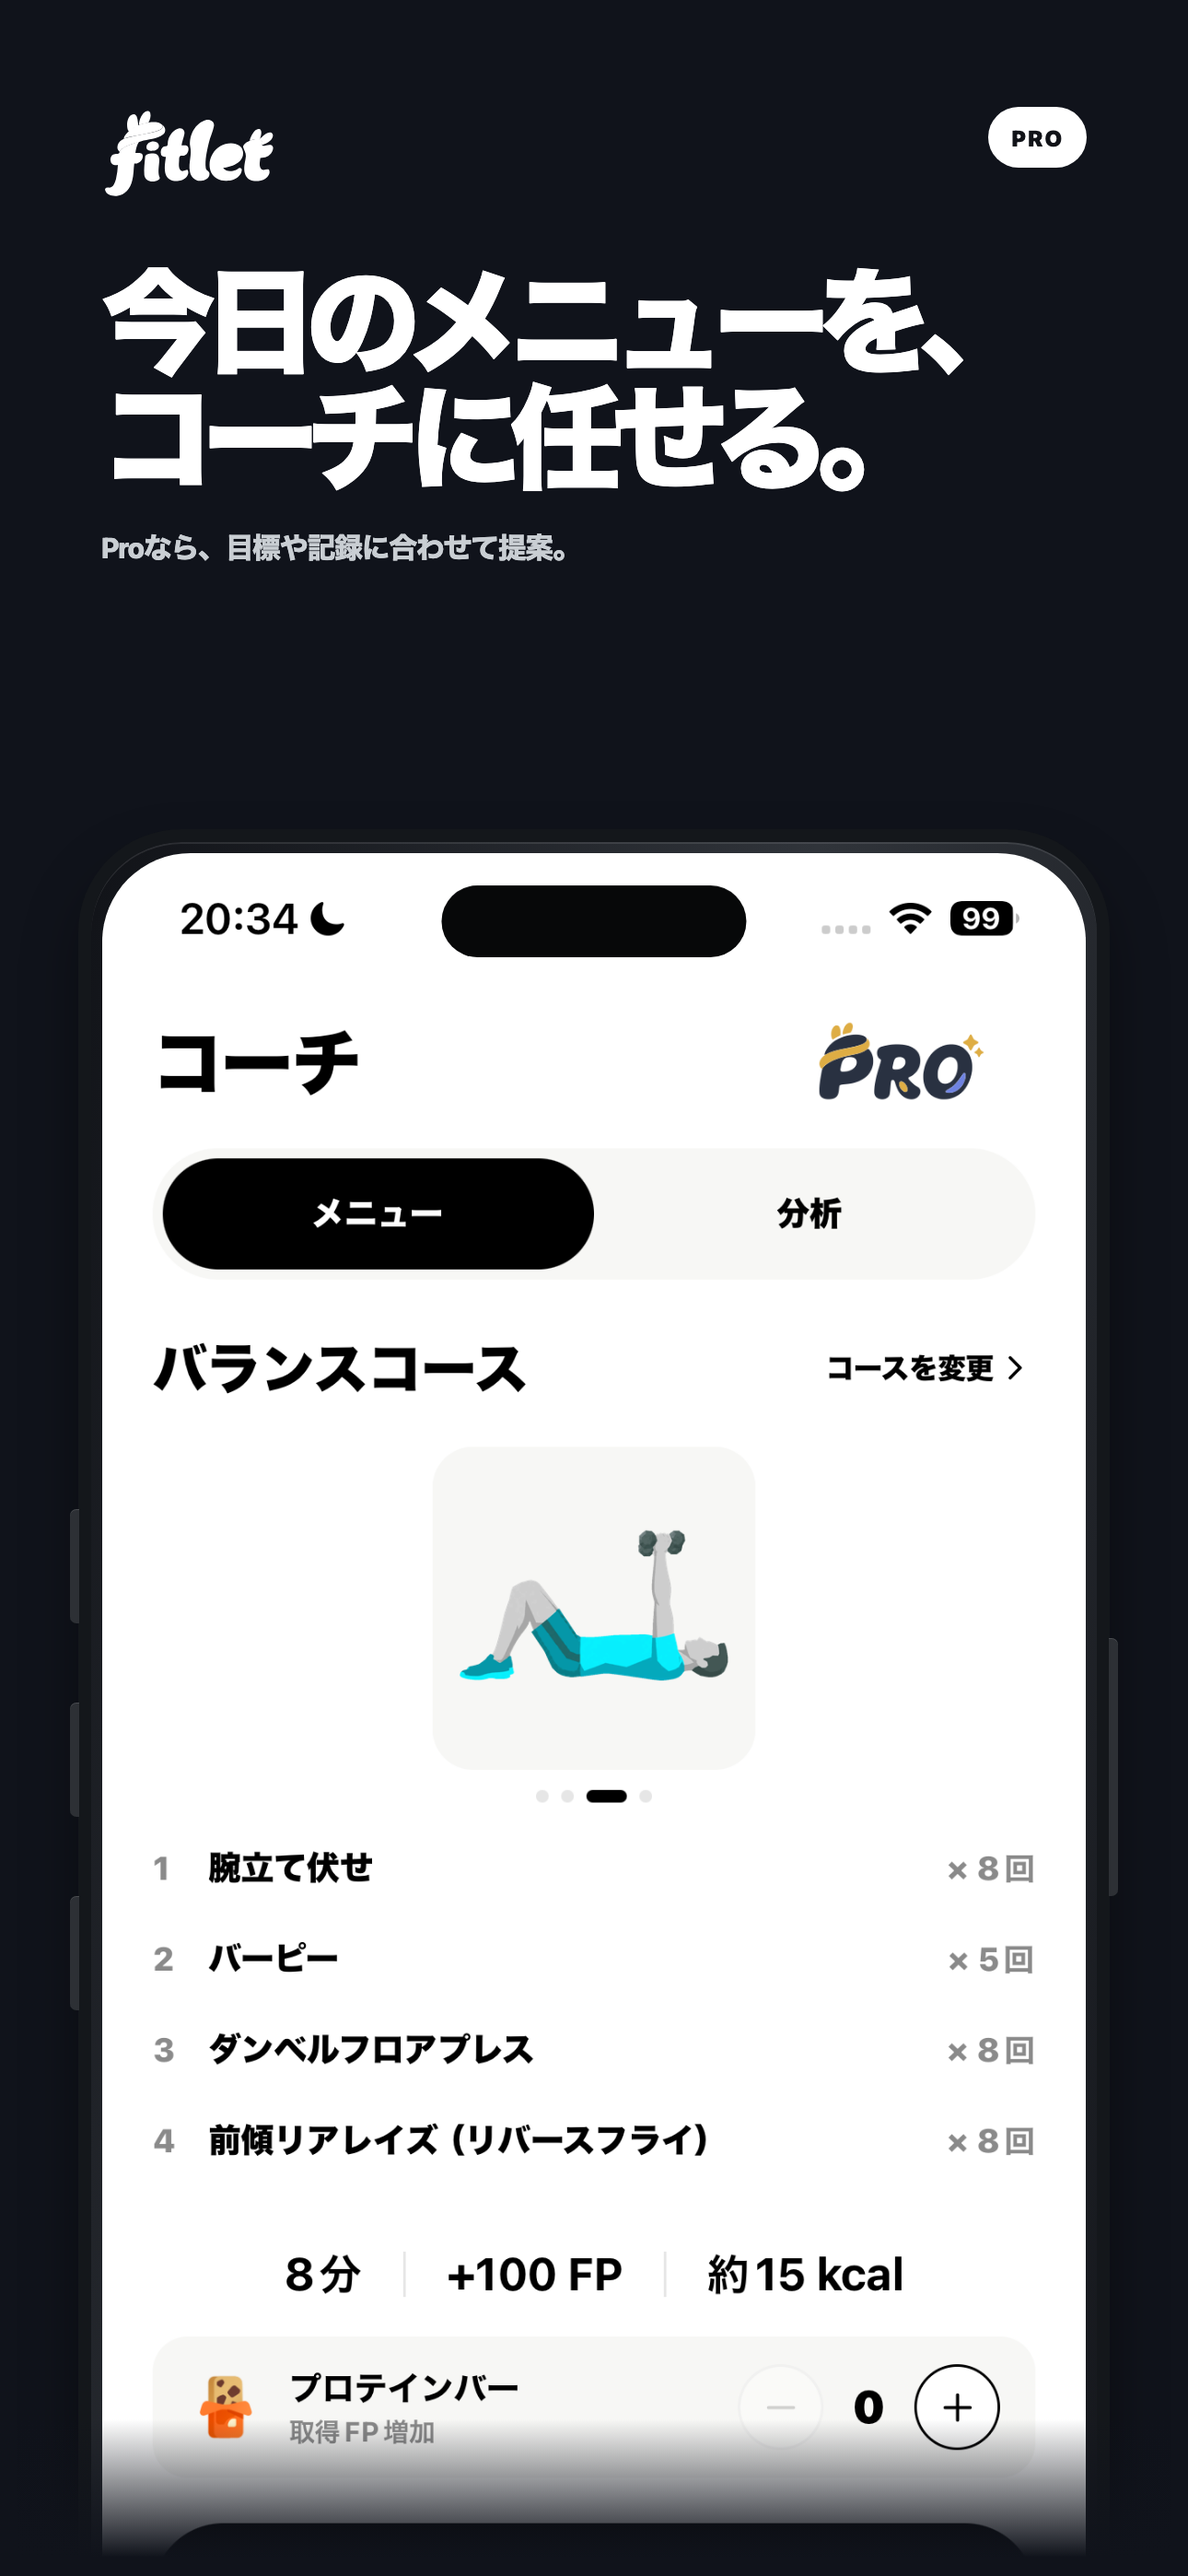
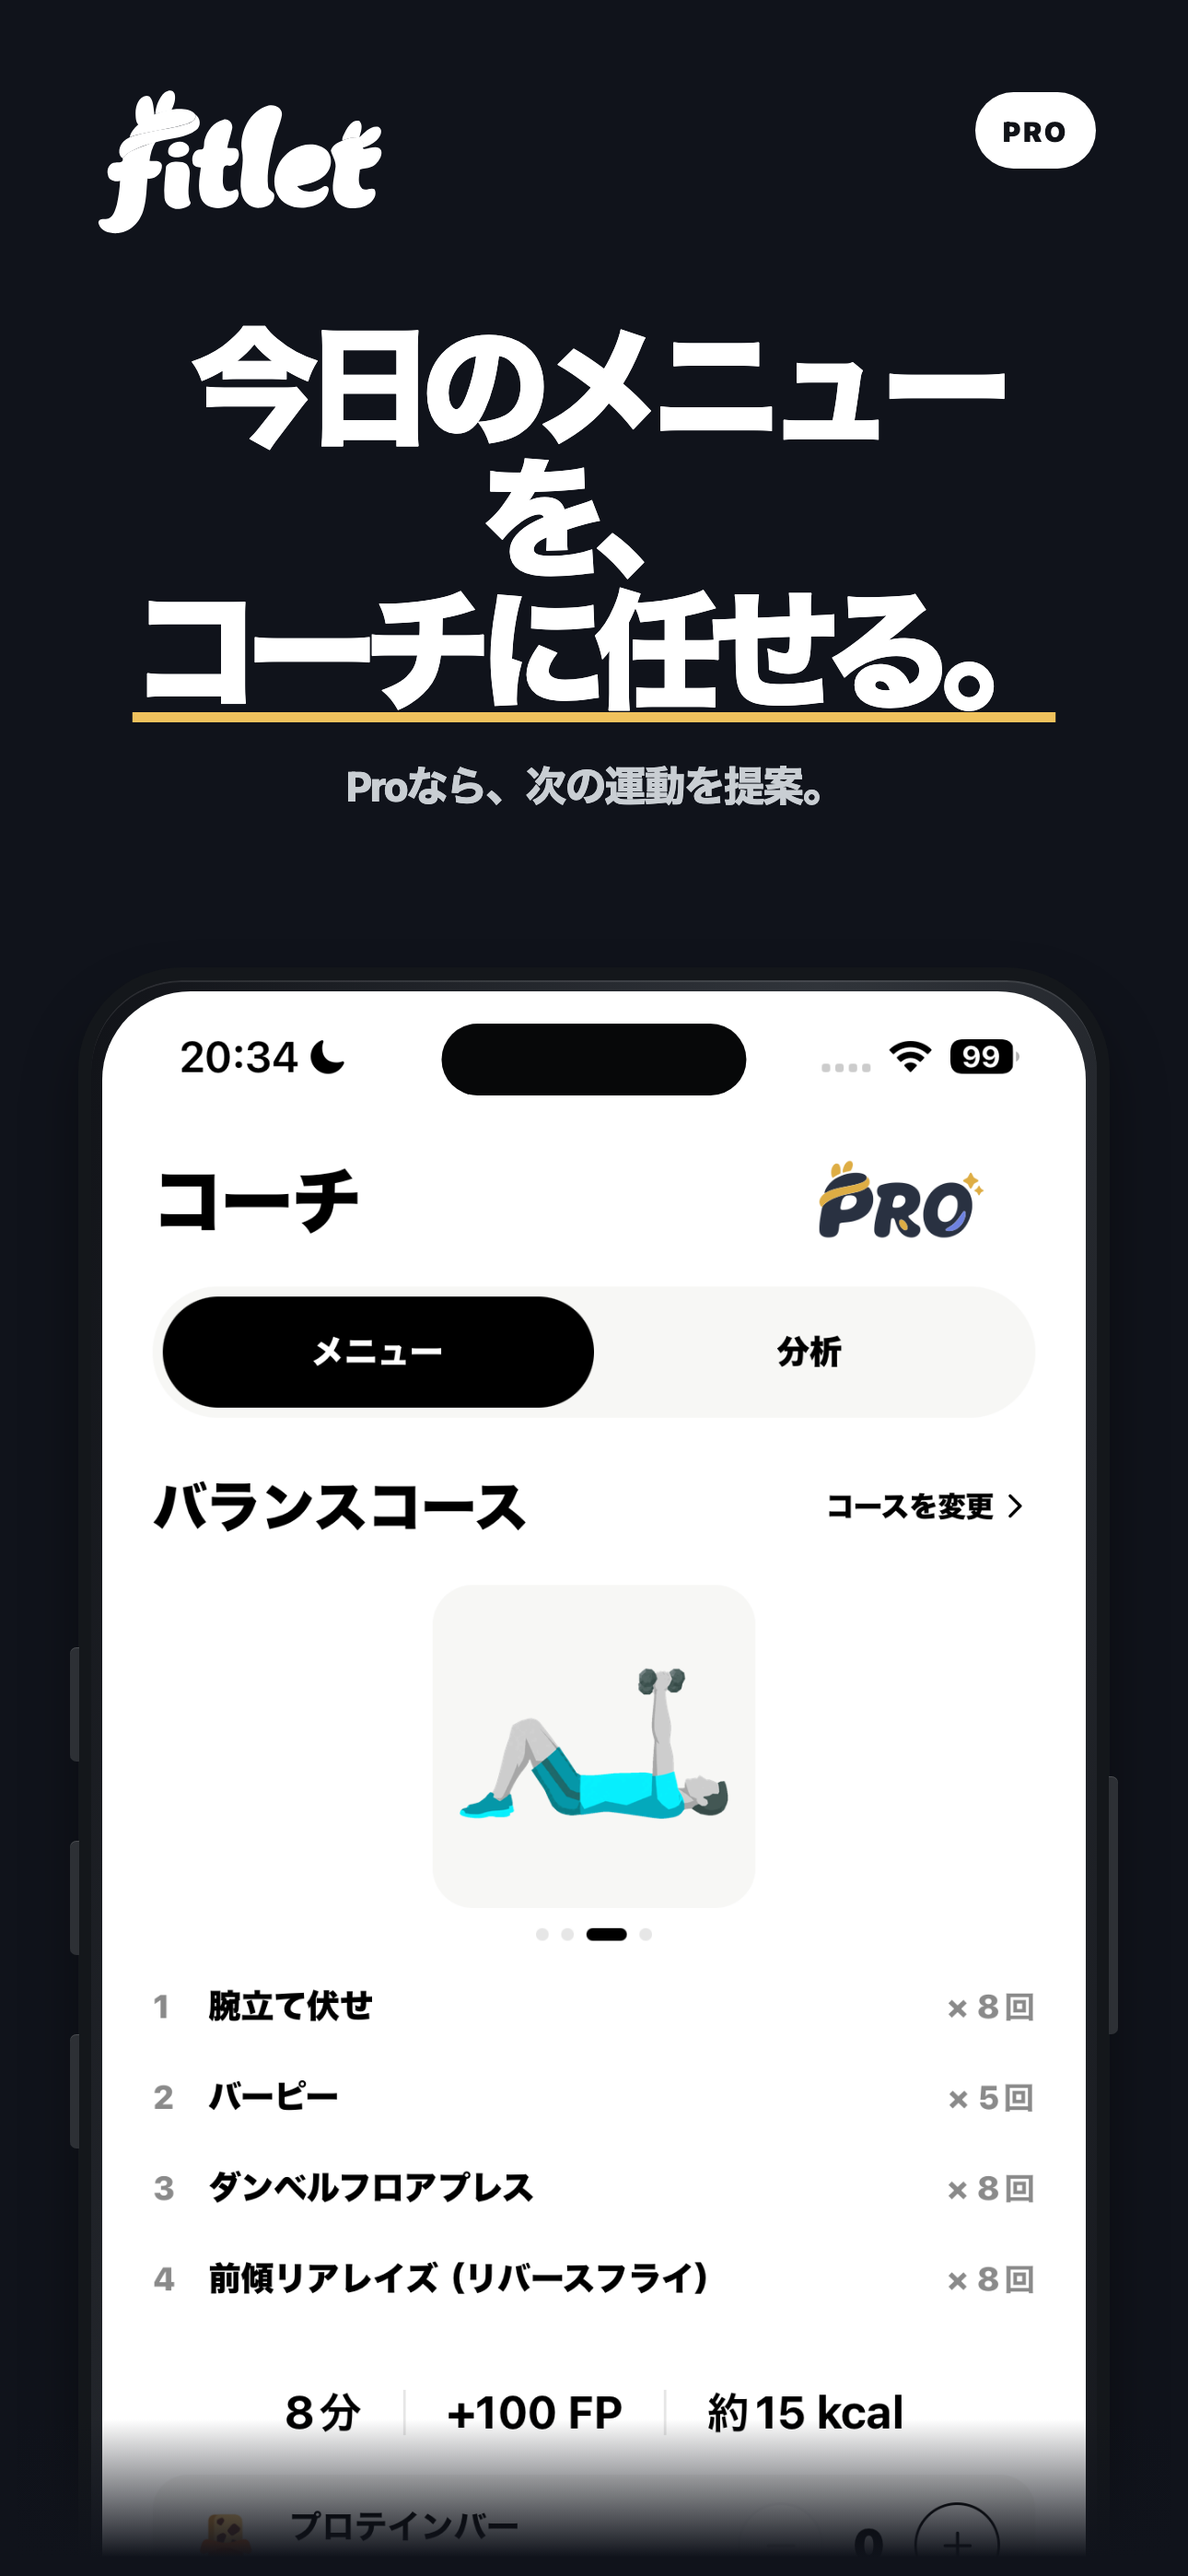
Increase App Store message hierarchy

diff --git a/app/globals.css b/app/globals.css
@@ -1000,6 +1000,7 @@ img { display: block; max-width: 100%; }
 /* App Store artwork: fixed 1290×2796 output for the 6.7-inch portrait slot. */
 .store-shot {
   --store-bg: #e4f5f4;
+  --store-accent: #20b8c3;
   --store-ink: #111318;
   position: relative;
   width: 1290px;
@@ -1026,52 +1027,62 @@ img { display: block; max-width: 100%; }
 .store-shot-brand {
   position: absolute;
   z-index: 8;
-  top: 118px;
-  left: 110px;
-  width: 190px;
+  top: 94px;
+  left: 100px;
+  width: 320px;
 }
 .store-shot-brand img { display: block; width: 100%; max-width: none; height: auto; }
 .store-shot-pro-badge {
   position: absolute;
   z-index: 8;
-  top: 116px;
-  right: 110px;
+  top: 100px;
+  right: 100px;
   border-radius: 999px;
-  padding: 16px 25px 14px;
+  padding: 20px 30px 18px;
   background: #fff;
   color: #111318;
-  font-size: 24px;
+  font-size: 30px;
   font-weight: 950;
   letter-spacing: .08em;
 }
 .store-shot-copy {
   position: absolute;
   z-index: 7;
-  top: 286px;
-  right: 110px;
-  left: 110px;
+  top: 350px;
+  right: 100px;
+  left: 100px;
+  text-align: center;
 }
 .store-shot-copy h1 {
-  max-width: 1080px;
+  max-width: 1180px;
   margin: 0;
-  font-size: 124px;
+  font-size: 164px;
   font-weight: 950;
   letter-spacing: -.105em;
   line-height: 1.02;
 }
+.store-shot-copy h1 span {
+  white-space: nowrap;
+  text-decoration-line: underline;
+  text-decoration-thickness: 11px;
+  text-decoration-color: var(--store-accent);
+  text-underline-offset: 14px;
+}
 .store-shot-copy p {
-  max-width: 900px;
-  margin: 34px 0 0;
-  color: rgba(17,19,24,.62);
-  font-size: 31px;
+  max-width: 1060px;
+  margin: 42px 0 0;
+  color: rgba(17,19,24,.76);
+  font-size: 45px;
   font-weight: 780;
   letter-spacing: -.045em;
   line-height: 1.45;
+  margin-right: auto;
+  margin-left: auto;
 }
 .store-shot-phone {
   position: absolute;
   z-index: 3;
-  top: 900px;
+  top: 1050px;
   left: 85px;
   width: 1120px;
   margin: 0;
@@ -1119,15 +1130,17 @@ img { display: block; max-width: 100%; }
 .store-shot-side-button-left-two { top: 40%; left: -23px; height: 5.3%; }
 .store-shot-side-button-left-three { top: 49%; left: -23px; height: 5.3%; }
 .store-shot-side-button-right { top: 37%; right: -23px; height: 12%; border-radius: 0 7px 7px 0; }
-.store-shot-session { --store-bg: #fff0e8; }
-.store-shot-training { --store-bg: #eef6d6; }
-.store-shot-league { --store-bg: #fff9e8; }
-.store-shot-profile { --store-bg: #f4f3ef; }
+.store-shot-session { --store-bg: #fff0e8; --store-accent: #22c9df; }
+.store-shot-training { --store-bg: #eef6d6; --store-accent: #75bd4d; }
+.store-shot-league { --store-bg: #fff9e8; --store-accent: #d99446; }
+.store-shot-profile { --store-bg: #f4f3ef; --store-accent: #fa5b91; }
 .store-shot-coach {
   --store-bg: #10131b;
+  --store-accent: #f0c25d;
   --store-ink: #fff;
 }
 .store-shot-coach .store-shot-brand { filter: brightness(0) invert(1); }
+.store-shot-coach .store-shot-copy h1 { font-size: 140px; }
 .store-shot-coach .store-shot-copy p { color: #c9ced3; }
 .store-shot-coach .store-shot-phone { box-shadow: 0 35px 60px rgba(0,0,0,.35), 0 2px 0 rgba(255,255,255,.1) inset; }
 

diff --git a/app/store-screenshot/page.tsx b/app/store-screenshot/page.tsx
@@ -5,34 +5,34 @@ import { publicAsset } from "../lib/publicAsset";
 
 const scenes = {
   home: {
-    title: <>動くと、<br />マップが進む。</>,
-    detail: "終えるたびに、次の場所へ。",
+    title: <>動くと、<br /><span>マップが進む。</span></>,
+    detail: "終えるたび、次の場所へ。",
     src: "/app-screens/ja/real-home.png",
   },
   session: {
-    title: <>カメラが、<br />回数を数える。</>,
-    detail: "動きを捉えて、回数を自動でカウント。",
+    title: <>カメラが、<br /><span>回数を数える。</span></>,
+    detail: "動きを捉えて、自動でカウント。",
     src: "/app-screens/ja/real-session.png",
   },
   training: {
-    title: <>好きな運動から、<br />始められる。</>,
-    detail: "39種目から選んで、自分のセットを作れます。",
+    title: <><span>好きな運動から、</span><br />始められる。</>,
+    detail: "39種目から、自由に選べる。",
     src: "/app-screens/ja/real-training.png",
   },
   league: {
-    title: <>動いた分だけ、<br />順位が変わる。</>,
-    detail: "毎週のFPで、仲間と競えます。",
+    title: <>動いた分だけ、<br /><span>順位が変わる。</span></>,
+    detail: "毎週のFPで、仲間と競える。",
     src: "/app-screens/ja/real-league.png",
   },
   coach: {
-    title: <>今日のメニューを、<br />コーチに任せる。</>,
-    detail: "Proなら、目標や記録に合わせて提案。",
+    title: <>今日のメニューを、<br /><span>コーチに任せる。</span></>,
+    detail: "Proなら、次の運動を提案。",
     src: "/app-screens/ja/real-coach.png",
     pro: true,
   },
   profile: {
-    title: <>続けた記録が、<br />残っていく。</>,
-    detail: "レベルや連続日数を、いつでも振り返れます。",
+    title: <><span>続けた記録</span>が、<br />残っていく。</>,
+    detail: "続けた日数やレベルを記録。",
     src: "/app-screens/ja/real-profile.png",
   },
 } as const;
